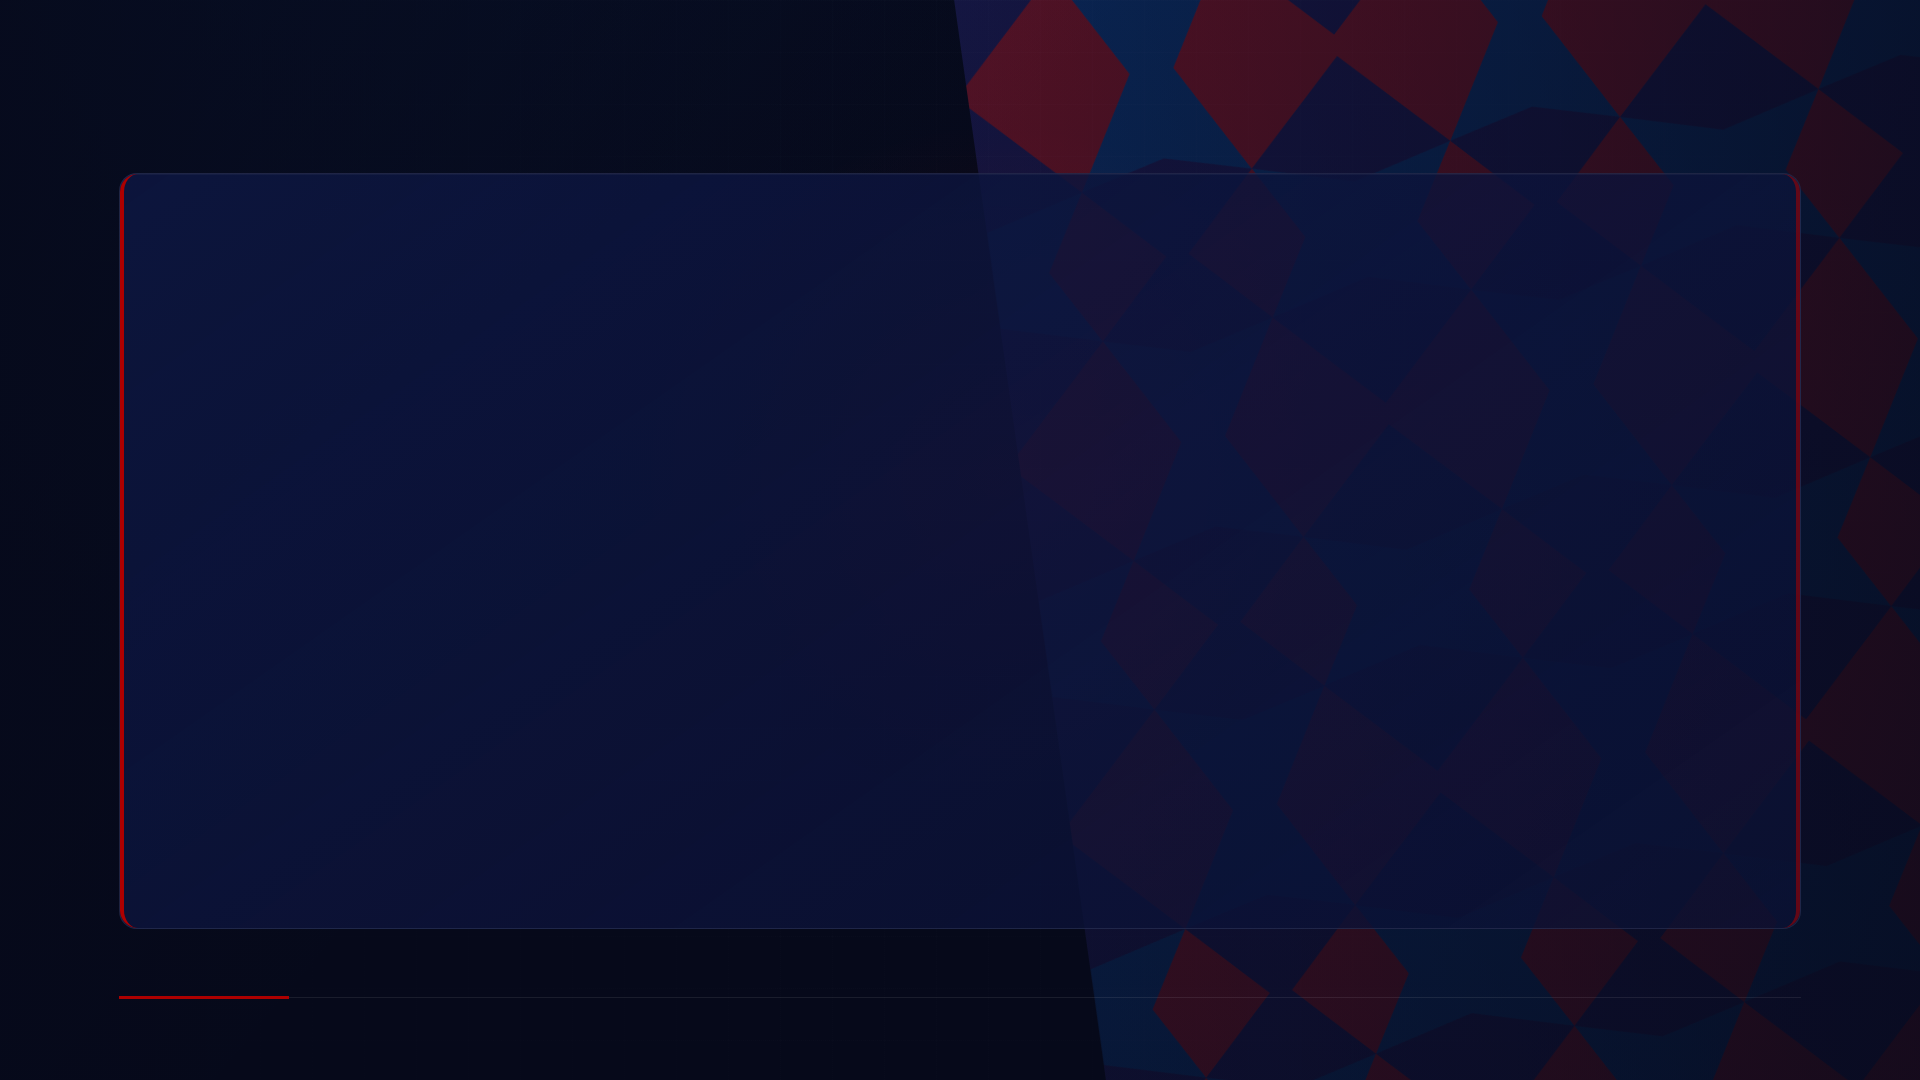
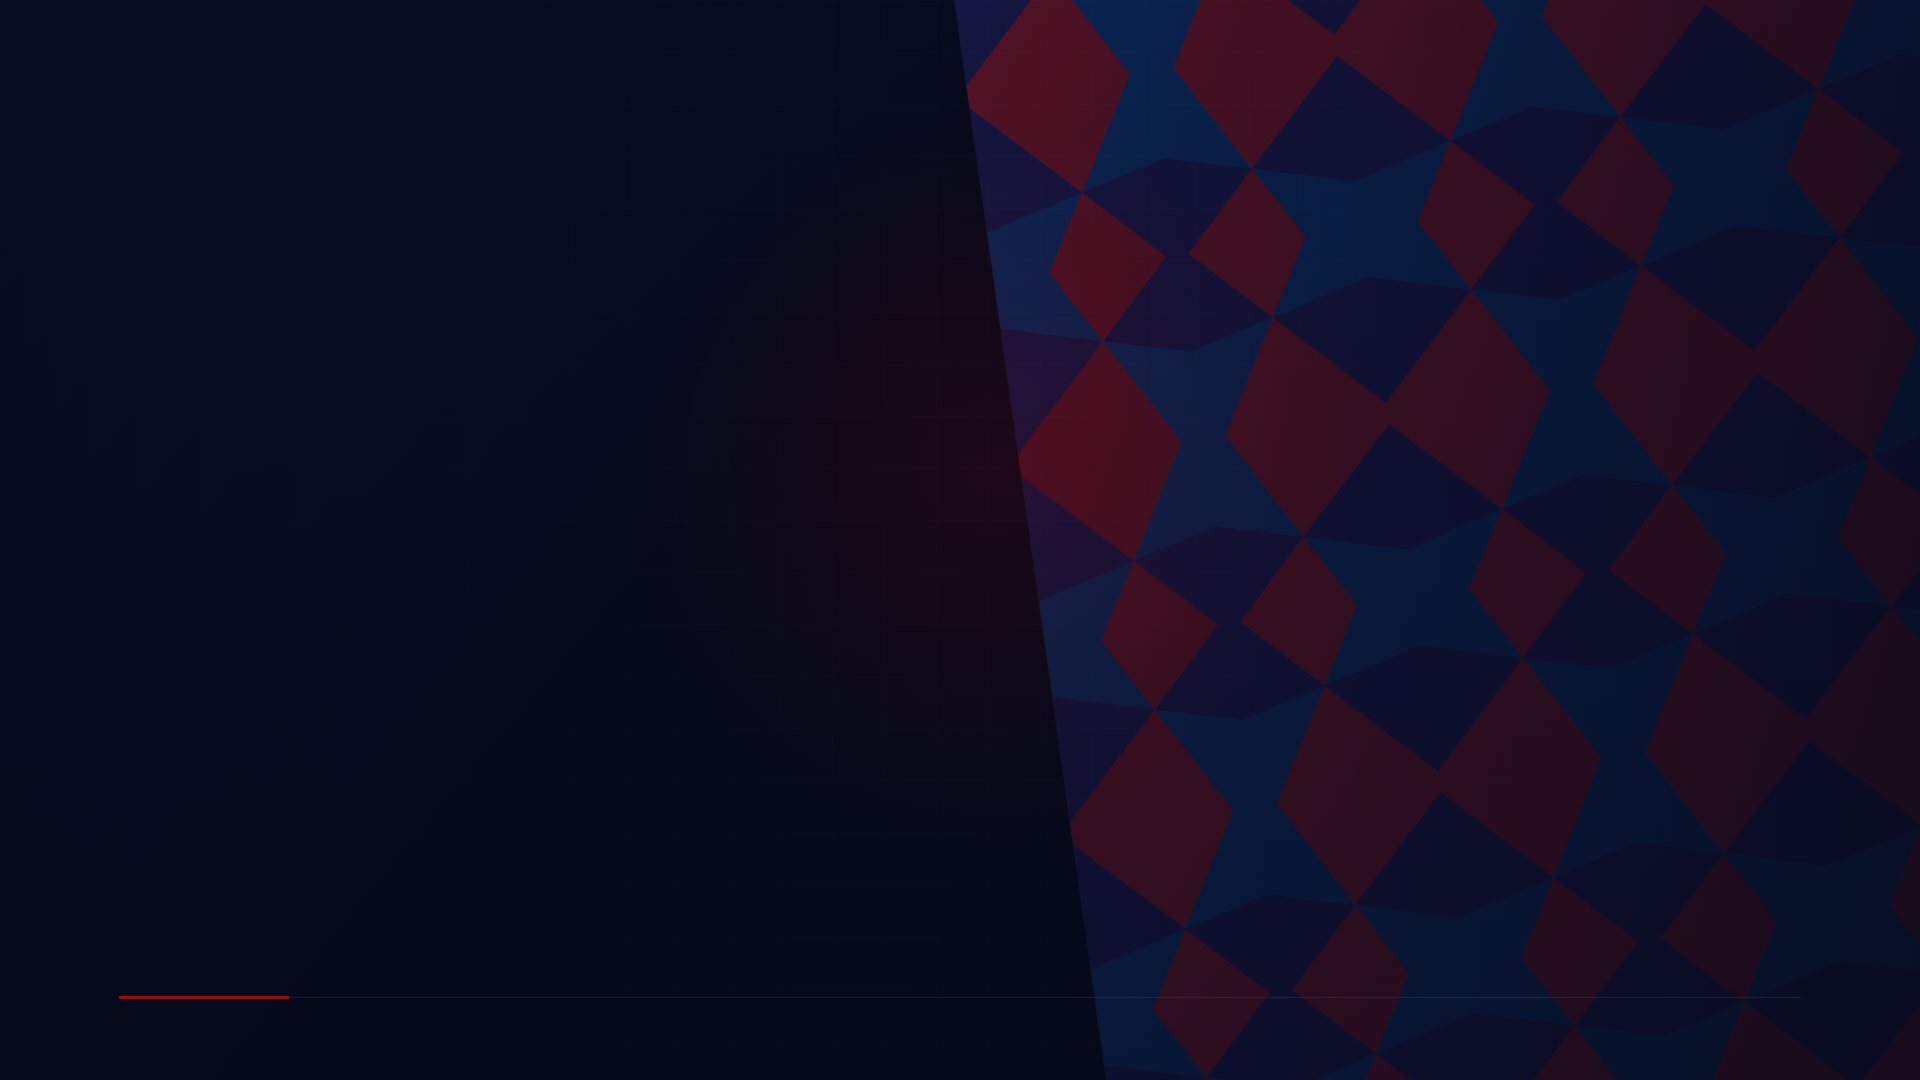
Update presentation background exports

diff --git a/drafts/presentation-backgrounds-core.html b/drafts/presentation-backgrounds-core.html
@@ -109,7 +109,9 @@
     body.export-mode .caption,
     body.export-mode .content-layer,
     body.export-mode .preview-logo,
-    body.export-mode .footer-slogan {
+    body.export-mode .footer-slogan,
+    body.export-mode .safe-zone,
+    body.export-mode .standings-frame {
       display: none !important;
     }
 

diff --git a/drafts/presentation-backgrounds-handoff.md b/drafts/presentation-backgrounds-handoff.md
@@ -22,7 +22,7 @@ Design direction stays aligned with `DESIGN_HANDOFF.md`: **Web-Native Quiz Syste
 - Export script: `scripts/export-presentation-backgrounds.ps1`
 - Export target: `drafts/presentation-backgrounds/`
 
-The HTML file includes placeholder text only for approval. The export script opens the same HTML in export mode and hides all text/content overlays, producing clean PNG backgrounds.
+The HTML file includes placeholder text and native-layer mockups only for approval. The export script opens the same HTML in export mode and hides text/content overlays plus the main safe-zone/frame panels, producing clean PNG backgrounds.
 
 ## Asset rules
 
@@ -107,8 +107,8 @@ Riskuj backgrounds must reserve native video/timer space and clickable back/menu
 - Slogan `Sdílíme tvou sportovní vášeň` is shown as a preview placeholder in HTML, but final generated text should stay native in Google Slides.
 - `intro` now uses a larger logo and less text in preview.
 - `general` has a larger content area for longer rules or more bullets.
-- `quiz-question` and `quiz-question-bonus` include larger safe zones, visible question number, and topic label in preview.
-- `quiz-answer` no longer has the X icon; it has preview placeholders for question number, topic/question text, main answer, and a large image-safe area.
+- `quiz-question` and `quiz-question-bonus` include larger safe zones, visible question number, and topic label in preview only; exported PNGs keep these as native Slides layers.
+- `quiz-answer` no longer has the X icon; it has preview placeholders for question number, topic/question text, main answer, and a large image-safe area, all intended as native Slides layers.
 
 ## Next implementation notes
 
